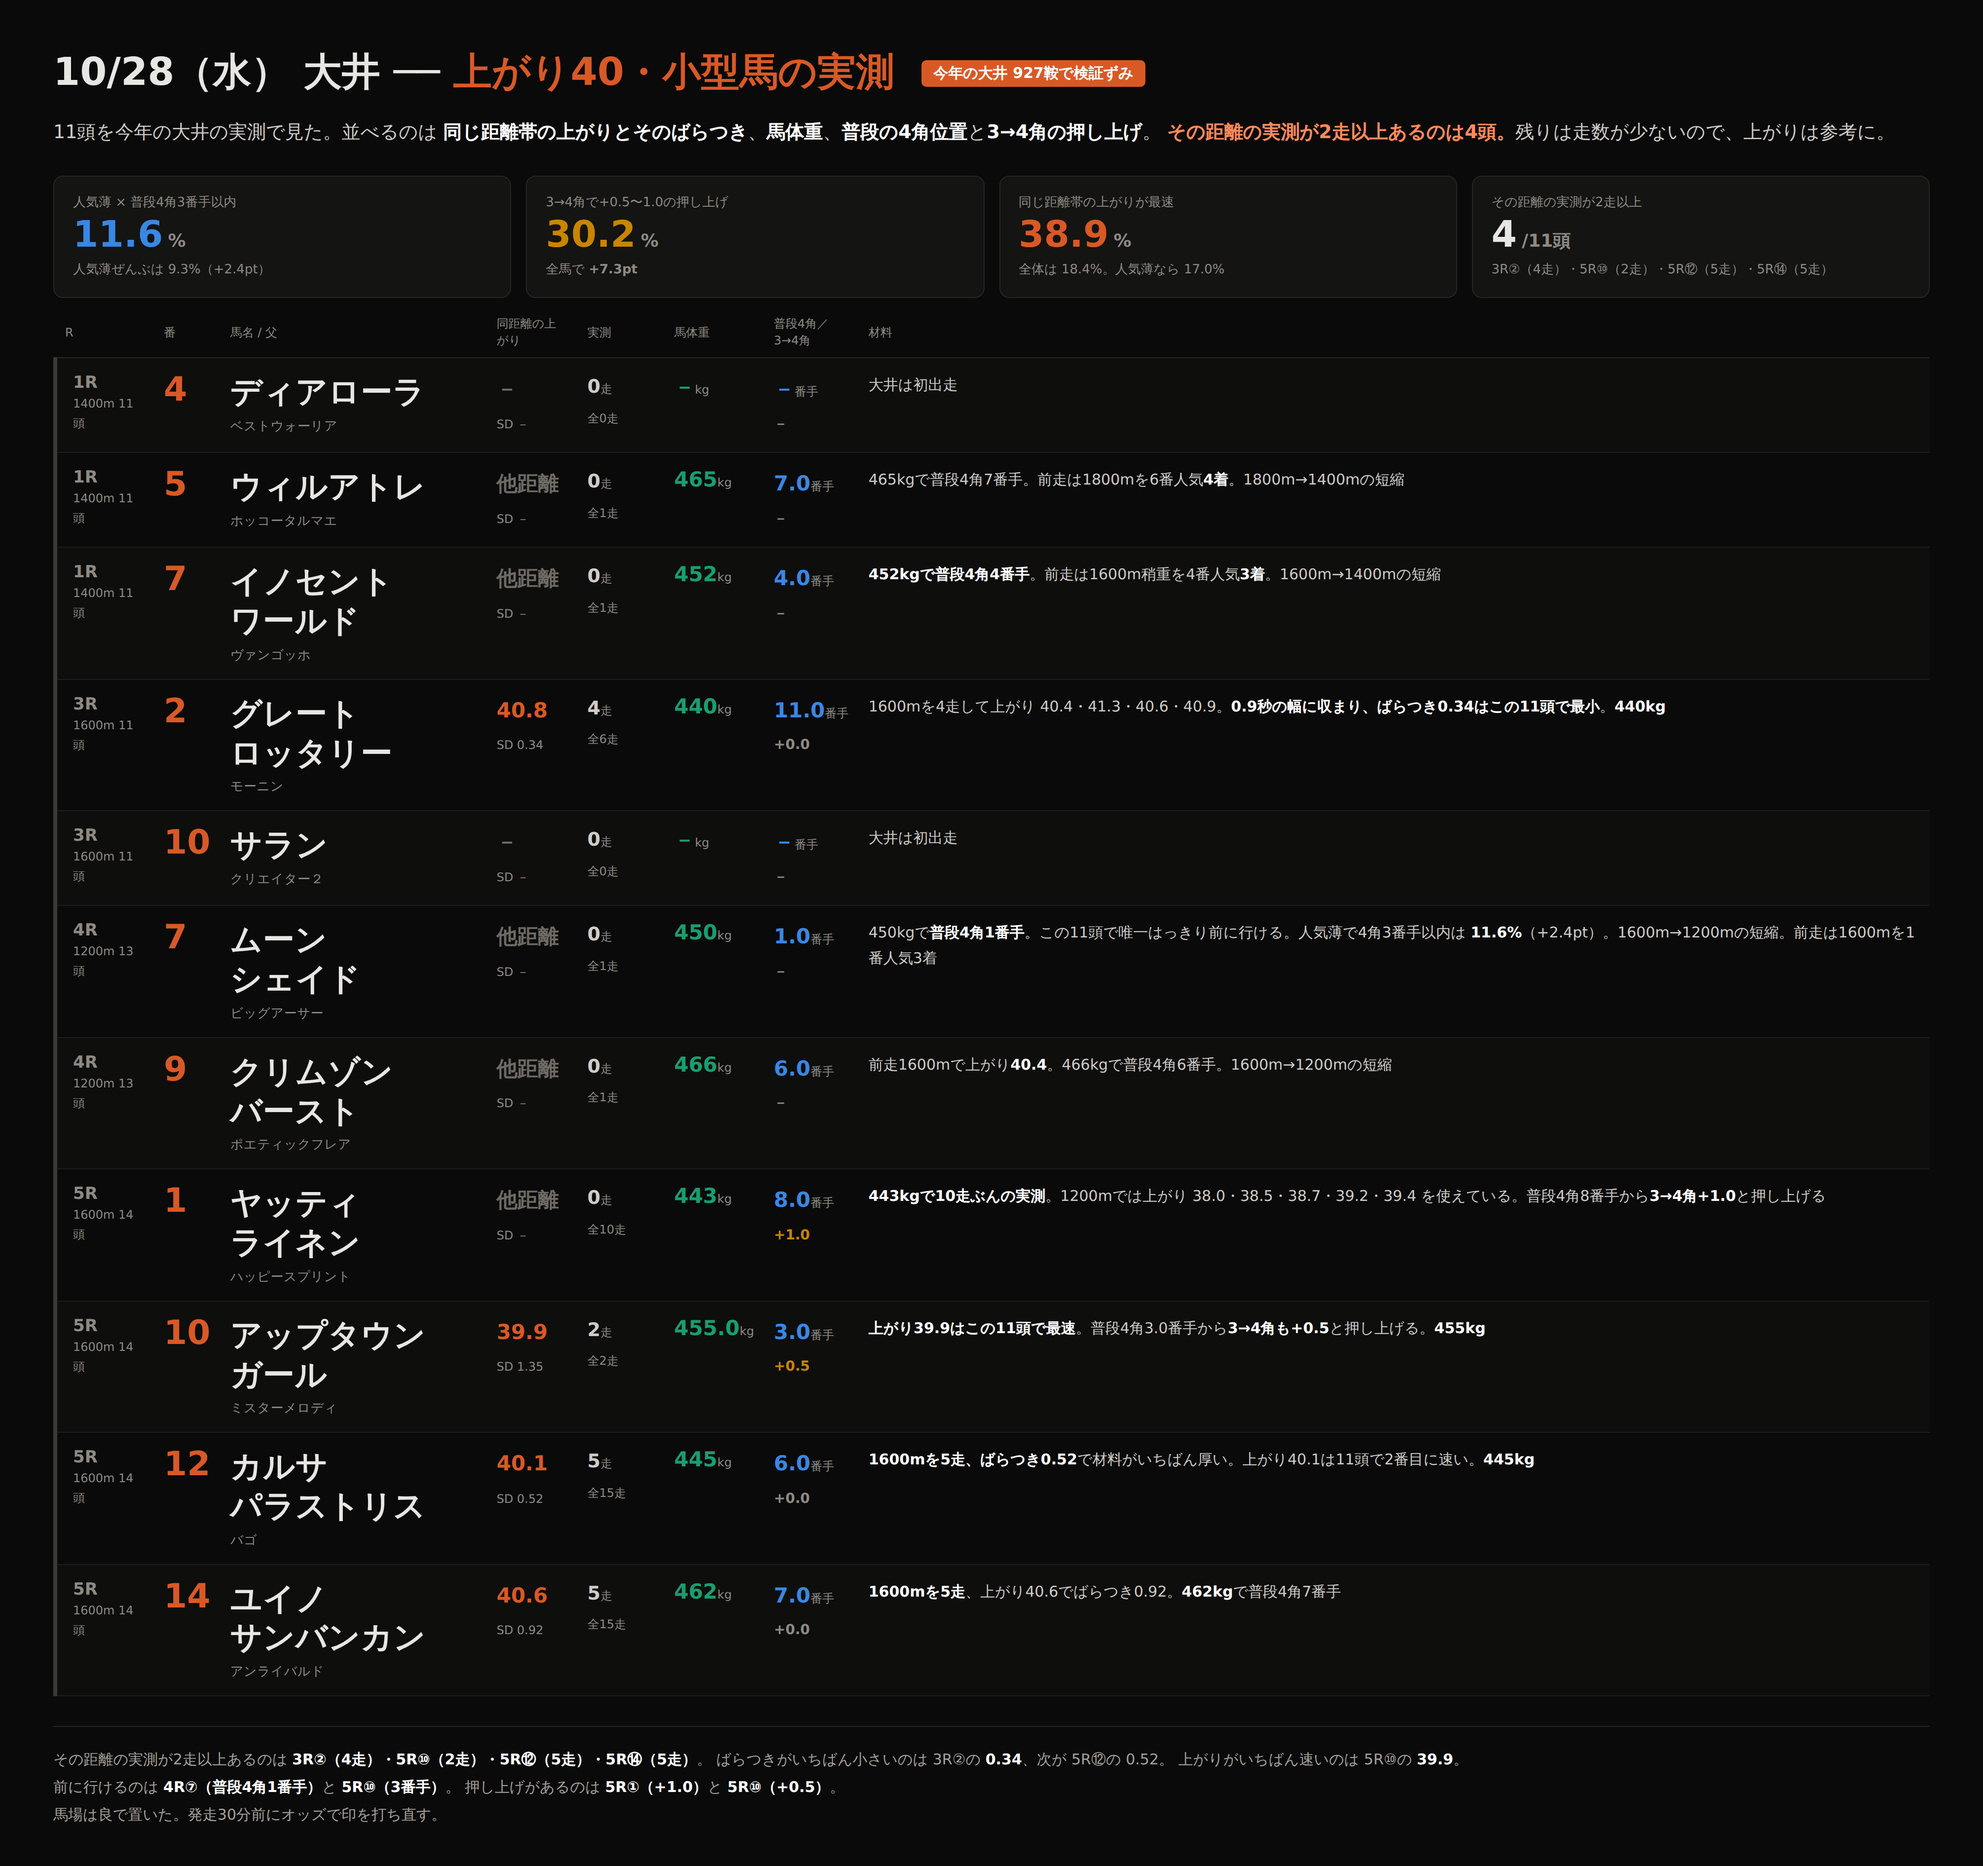
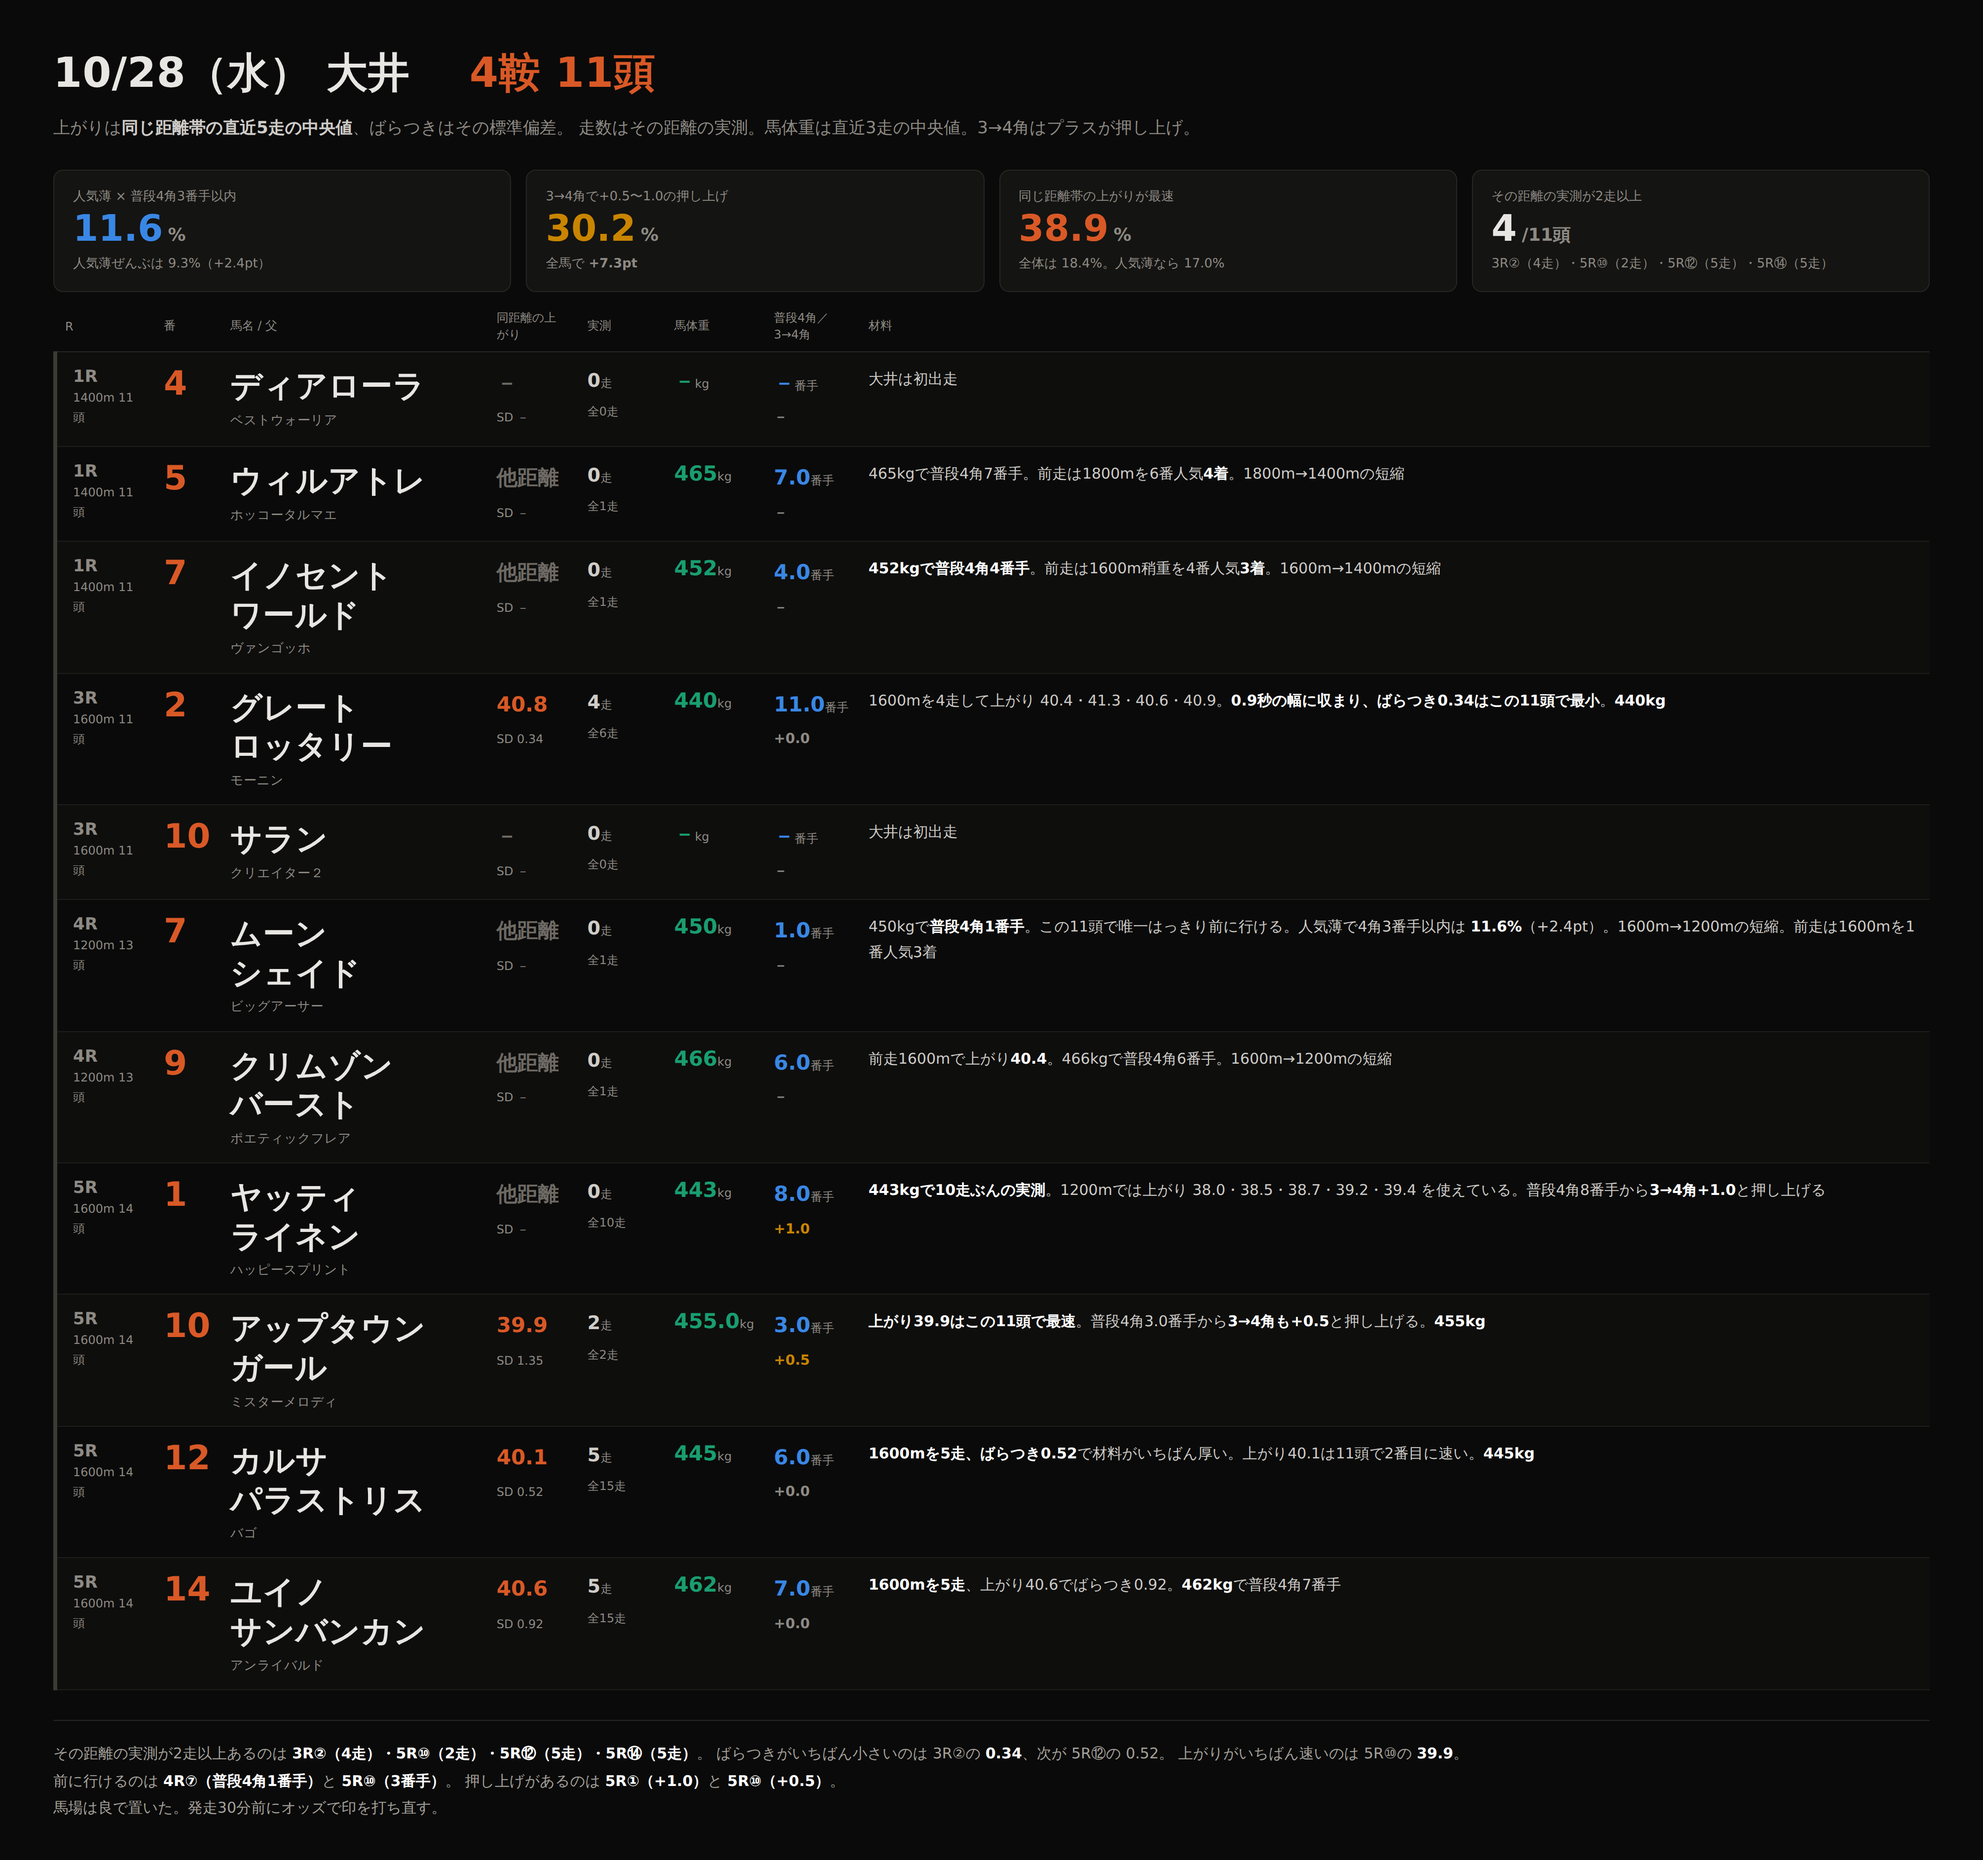
リストのカード：見出しに鞍数と頭数、説明を1行に
見出しのバッジを2つやめ、「4鞍 11頭」だけにした。
説明文も1行にまとめた。

Claude-Session: https://claude.ai/code/session_01RoHscZkr96FNaxQWvUqgEw

diff --git a/notes/live/2026-10-28/list.html b/notes/live/2026-10-28/list.html
@@ -3,11 +3,15 @@
 *{box-sizing:border-box;margin:0;padding:0}
 body{background:#0a0a0a;color:#e8e6e3;font-family:"Hiragino Sans","Noto Sans JP",system-ui,sans-serif;
  padding:46px 54px 38px;width:2010px;-webkit-font-smoothing:antialiased}
-h1{font-size:39px;font-weight:800} h1 .ac{color:#d95926}
+h1{font-size:42px;font-weight:800;letter-spacing:.01em}
+h1 .ac{color:#d95926;margin-left:18px}
+.cnt{display:inline-block;background:#1d1d1a;border:1px solid #2e2e2a;color:#cfccc8;
+ font-size:17px;font-weight:700;padding:5px 14px;border-radius:5px;margin-left:16px;
+ vertical-align:7px}
 .tag{display:inline-block;background:#d95926;color:#fff;font-size:15px;font-weight:700;
  padding:4px 12px;border-radius:5px;margin-left:14px;vertical-align:7px}
-.lead{margin-top:17px;font-size:19px;line-height:1.85;color:#cfccc8;max-width:1880px}
-.lead b{color:#fff} .lead .hl{color:#ff8a5c;font-weight:700}
+.lead{margin-top:14px;font-size:17px;line-height:1.75;color:#8e8a84}
+.lead b{color:#cfccc8}
 .tiles{display:grid;grid-template-columns:repeat(4,1fr);gap:15px;margin:26px 0 8px}
 .tile{background:#141412;border:1px solid #262622;border-radius:10px;padding:17px 19px}
 .tile .k{font-size:13px;color:#8e8a84}
@@ -55,13 +59,9 @@ footer{margin-top:30px;padding-top:20px;border-top:1px solid #262622;
  font-size:15px;line-height:1.85;color:#a5a19b}
 footer b{color:#fff} footer .hl{color:#ff8a5c;font-weight:700}
 </style></head><body>
-<h1>10/28（水） 大井 ── <span class=ac>上がり40・小型馬の実測</span>
-<span class=tag>今年の大井 927鞍で検証ずみ</span></h1>
-<p class=lead>
-11頭を今年の大井の実測で見た。並べるのは
-<b>同じ距離帯の上がりとそのばらつき</b>、<b>馬体重</b>、<b>普段の4角位置</b>と<b>3→4角の押し上げ</b>。
-<span class=hl>その距離の実測が2走以上あるのは4頭。</span>残りは走数が少ないので、上がりは参考に。
-</p>
+<h1>10/28（水） 大井　<span class=ac>4鞍 11頭</span></h1>
+<p class=lead>上がりは<b>同じ距離帯の直近5走の中央値</b>、ばらつきはその標準偏差。
+走数はその距離の実測。馬体重は直近3走の中央値。3→4角はプラスが押し上げ。</p>
 <div class=tiles>
  <div class=tile><div class=k>人気薄 × 普段4角3番手以内</div>
   <div class=v style="color:#3987e5">11.6<small>%</small></div>

diff --git a/scripts/ana/ooi_list_card.py b/scripts/ana/ooi_list_card.py
@@ -54,6 +54,8 @@ def wrap(nm):
     return html.escape(nm[:k]) + '<br>' + html.escape(nm[k:])
 
 
+NR = len({p['R'] for p in P})
+
 rows = []
 for p in P:
     why = WHY.get(p['nm'], '')
@@ -80,11 +82,15 @@ HTML = f'''<!doctype html><html lang=ja><head><meta charset=utf-8>
 *{{box-sizing:border-box;margin:0;padding:0}}
 body{{background:#0a0a0a;color:#e8e6e3;font-family:"Hiragino Sans","Noto Sans JP",system-ui,sans-serif;
  padding:46px 54px 38px;width:2010px;-webkit-font-smoothing:antialiased}}
-h1{{font-size:39px;font-weight:800}} h1 .ac{{color:#d95926}}
+h1{{font-size:42px;font-weight:800;letter-spacing:.01em}}
+h1 .ac{{color:#d95926;margin-left:18px}}
+.cnt{{display:inline-block;background:#1d1d1a;border:1px solid #2e2e2a;color:#cfccc8;
+ font-size:17px;font-weight:700;padding:5px 14px;border-radius:5px;margin-left:16px;
+ vertical-align:7px}}
 .tag{{display:inline-block;background:#d95926;color:#fff;font-size:15px;font-weight:700;
  padding:4px 12px;border-radius:5px;margin-left:14px;vertical-align:7px}}
-.lead{{margin-top:17px;font-size:19px;line-height:1.85;color:#cfccc8;max-width:1880px}}
-.lead b{{color:#fff}} .lead .hl{{color:#ff8a5c;font-weight:700}}
+.lead{{margin-top:14px;font-size:17px;line-height:1.75;color:#8e8a84}}
+.lead b{{color:#cfccc8}}
 .tiles{{display:grid;grid-template-columns:repeat(4,1fr);gap:15px;margin:26px 0 8px}}
 .tile{{background:#141412;border:1px solid #262622;border-radius:10px;padding:17px 19px}}
 .tile .k{{font-size:13px;color:#8e8a84}}
@@ -132,13 +138,9 @@ footer{{margin-top:30px;padding-top:20px;border-top:1px solid #262622;
  font-size:15px;line-height:1.85;color:#a5a19b}}
 footer b{{color:#fff}} footer .hl{{color:#ff8a5c;font-weight:700}}
 </style></head><body>
-<h1>{DAY} 大井 ── <span class=ac>上がり40・小型馬の実測</span>
-<span class=tag>今年の大井 927鞍で検証ずみ</span></h1>
-<p class=lead>
-11頭を今年の大井の実測で見た。並べるのは
-<b>同じ距離帯の上がりとそのばらつき</b>、<b>馬体重</b>、<b>普段の4角位置</b>と<b>3→4角の押し上げ</b>。
-<span class=hl>その距離の実測が2走以上あるのは4頭。</span>残りは走数が少ないので、上がりは参考に。
-</p>
+<h1>{DAY} 大井　<span class=ac>{NR}鞍 {len(P)}頭</span></h1>
+<p class=lead>上がりは<b>同じ距離帯の直近5走の中央値</b>、ばらつきはその標準偏差。
+走数はその距離の実測。馬体重は直近3走の中央値。3→4角はプラスが押し上げ。</p>
 <div class=tiles>
  <div class=tile><div class=k>人気薄 × 普段4角3番手以内</div>
   <div class=v style="color:#3987e5">11.6<small>%</small></div>
